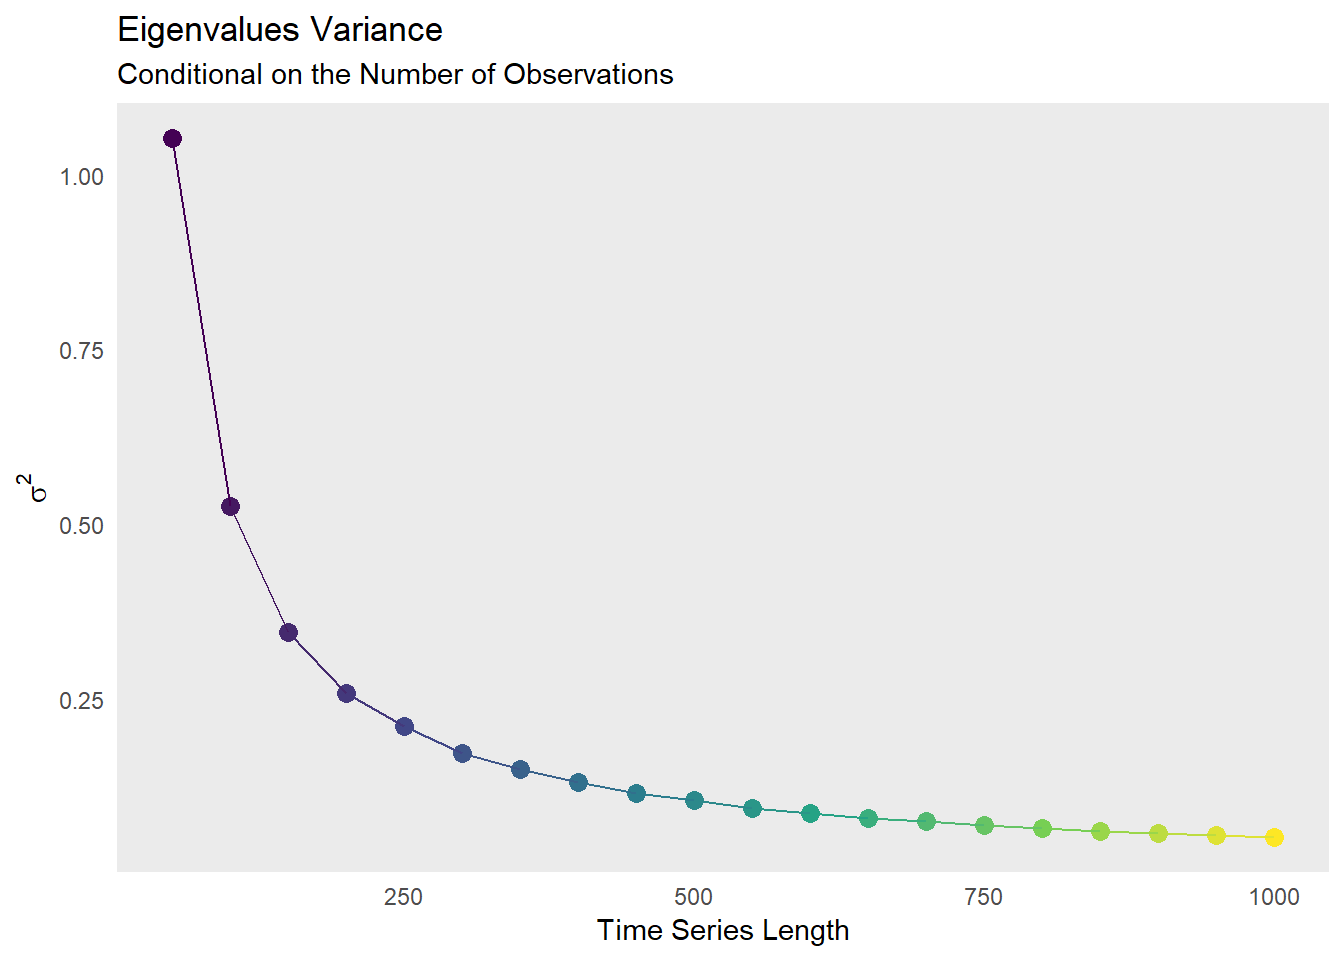
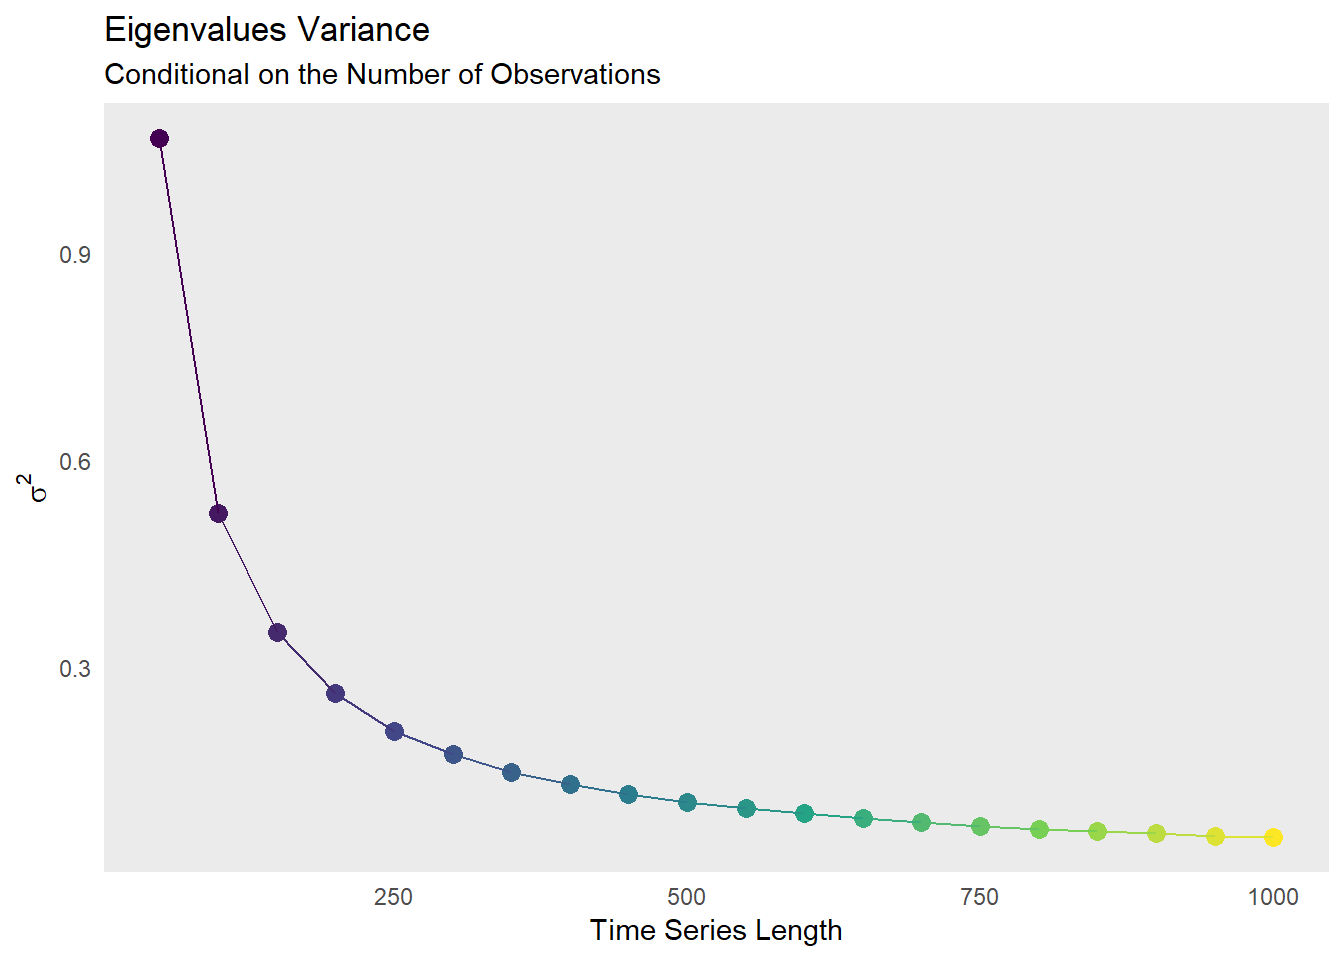
...

diff --git a/content/post/2019-02-27-estimation-error-visualized.html b/content/post/2019-02-27-estimation-error-visualized.html
@@ -17,8 +17,8 @@ tags:
 <p>By estimation-error I mean: the researcher is never certain about the <em>true</em> data generating process (DGP) of the phenomenon at hand. As Allan Timmermann and Graham Elliott argue, economic models can be thought as a condense representation of reality, in which mispecifification flourish naturally<a href="#fn3" class="footnoteRef" id="fnref3"><sup>3</sup></a>.</p>
 <p>To circumvent this problem statisticians appeal basically for two methods: <em>robust statistics</em> and <em>shrinkage</em>.</p>
 <p>The idea of robust statistics is to make data less sensitive to outliers. “Robust” means that small changes in data (or in the way data is described), do not affect by much it’s descriptive parameters. In that sense, the median is a robust statistic, while the mean it’s not.</p>
-<p>Shrinkage, on the other hand, is a way of averaging different estimators. In this case, practitioners often combine parametric and non-parametric estimators in attempt to keep the best of both options.</p>
-<p>One interesting application of shrinkage methods is in the estimation of variance-covariance matrices. Those matrices are required by almost any mathematical method in economics: from portfolio optimization to least squares and its strands (GLS, GMM, etc).</p>
+<p>Shrinkage, on the other hand, is a way of averaging different estimators. In this case, practitioners often combine parametric and non-parametric estimators in attempt to keep the best of both worlds</p>
+<p>One interesting application of shrinkage methods is in the estimation of variance-covariance matrices. Those matrices are required by almost any mathematical recipes in economics: from portfolio optimization to least squares - with all its strands (GLS, GMM, etc).</p>
 <p>A problem arises, though, if the matrix dimension, <span class="math inline">\(p\)</span>, is large in comparison to the number of observations, <span class="math inline">\(n\)</span>. If <span class="math inline">\(p &gt; n\)</span> the matrix is not even invertible. A less extreme case would be given by a <span class="math inline">\(p\)</span> that approaches <span class="math inline">\(n\)</span>. In these scenario, the sample covariance matrix is invertible, but numerically ill-conditioned, which means that the inverse matrix can amplify estimation error dramatically<a href="#fn4" class="footnoteRef" id="fnref4"><sup>4</sup></a>.</p>
 <p>To illustrate this point more clearly, let’s simulate a series of matrices with increasing length. For each length, the eigenvalues (<span class="math inline">\(\lambda\)</span>) will be calculated to check if there is any association between <span class="math inline">\(n\)</span> (the number of time series length) and the matrix dimension <span class="math inline">\(p\)</span> (think of <span class="math inline">\(p\)</span> as he number of assets in a stock universe, for example). For this exercise, <span class="math inline">\(p = 50\)</span>, while <span class="math inline">\(n\)</span> grows from <span class="math inline">\(50\)</span>, to <span class="math inline">\(100\)</span>, to <span class="math inline">\(150\)</span>, …, up to <span class="math inline">\(1.000\)</span>. For each <span class="math inline">\(n\)</span>, <span class="math inline">\(100\)</span> simulations will be run to compute the average eigenvalues. Finally, the random shocks will be generated by a standard multivariate normal distribution, with zero mean and an unitary variance, <span class="math inline">\(\epsilon \sim N(0, 1)\)</span>.</p>
 <p>Why are the eigenvalues important? Think on them as a <em>proxy</em> for how much information the data contains. In the realm of optimization, for example, the eigenvalues can be used to check the maximum (or minimum) condition of a stationary point. In differential equations, they are used to access the rate of convergence around a certain steady-state. When the eigenvalues are negative<a href="#fn5" class="footnoteRef" id="fnref5"><sup>5</sup></a>, the process if convergent; if any is positive, the process is explosive.</p>
@@ -113,12 +113,12 @@ for (k in seq_along(n)) {
 <p>The <code>lambda_fitted</code> object contain the estimated eigenvalues we really care about:</p>
 <pre class="r"><code>lambda_fitted[1:5, 1:5]</code></pre>
 <pre><code>##         [,1]     [,2]     [,3]     [,4]     [,5]
-## 50  3.773481 3.415792 3.112939 2.903928 2.713163
-## 100 2.767573 2.558064 2.417292 2.285636 2.162859
-## 150 2.375210 2.223898 2.111311 2.007136 1.924859
-## 200 2.153245 2.033587 1.944844 1.863487 1.784688
-## 250 2.028657 1.917432 1.834543 1.762906 1.704360</code></pre>
-<p>In which I printed only the first <span class="math inline">\(5\)</span> rows and columns to save space. As we look from the left to the right, the simulated eigenvalues start to decrease. That’s nothing wrong with that since I have ordered them this way. The problem, thought, is that they are more variable at the top-left of the matrix then they are at the bottom-right.</p>
+## 50  3.826688 3.423896 3.149923 2.921429 2.707823
+## 100 2.773371 2.570432 2.399505 2.268357 2.163152
+## 150 2.410781 2.226220 2.118039 2.023118 1.933317
+## 200 2.156373 2.039951 1.949001 1.867923 1.798481
+## 250 2.026297 1.911185 1.831831 1.756611 1.691428</code></pre>
+<p>In which I printed only the first <span class="math inline">\(5\)</span> rows and columns to save space. As we look from the left to the right, the simulated eigenvalues start to decrease. That’s nothing wrong with that since I have ordered them this way. The problem, thought, is that they are more variable at the top-left of the matrix, then they are at the bottom-right.</p>
 <p>A 2-D surface clearly shows the distortion effect caused by estimation-error.</p>
 <pre class="r"><code>library(gganimate)
 library(latex2exp)
@@ -155,8 +155,8 @@ plot &lt;- lambda_fitted_tidy %&gt;%
 animate(plot)</code></pre>
 <p><img src="/post/2019-02-27-estimation-error-visualized_files/figure-html/unnamed-chunk-4-1.gif" style="display: block; margin: auto;" /></p>
 <p>The mean value of <span class="math inline">\(\lambda\)</span> is <span class="math inline">\(1\)</span>, which is in accordance with the multivariate process of <span class="math inline">\(\mu=0\)</span> and <span class="math inline">\(\sigma^2 = 1\)</span> generated above.</p>
-<p>If there were no estimation error, the distribution of <span class="math inline">\(\lambda\)</span> should be essentially flat (since the DGP is the same for all <span class="math inline">\(n\)</span>). But as we see, when data is short the ellipse twists dramatically. It’s in this scenario that “shrinkage” comes in. The ill-behavior of covariance matrices are alleviated by exploring the bias &amp; variance trade-off of a highly structured matrix and one with little or no structure at all. The end result is a flatter and more precise ellipse around it’s <em>true</em> eigenvalues (as it should be).</p>
-<p>The simulation above reveals a fast decay in the average eigenvalues within <span class="math inline">\(500\)</span> and <span class="math inline">\(750\)</span> realizations, after when they stabilize. This give us some clue on the minimum amount of data we should have when dealing with matrices of <span class="math inline">\(p = 50\)</span>.</p>
+<p>If there were no estimation error, the distribution of <span class="math inline">\(\lambda\)</span> should be essentially flat (since the DGP is the same for all <span class="math inline">\(n\)</span>). But as we see, when data is short the ellipse twists dramatically. It’s in this scenario that shrinkage comes in. The ill-behavior of covariance matrices are alleviated by exploring the bias-variance trade-off of a highly structured matrix and one with little or no structure at all. The end result is a flatter and more precise ellipse around it’s <em>true</em> eigenvalues (as it should be).</p>
+<p>The simulation above reveals a fast decay in the average eigenvalues within <span class="math inline">\(500\)</span> and <span class="math inline">\(750\)</span> realizations, after when they stabilize. This give us some clue on the minimum amount of data we should have when dealing with matrices of dimension <span class="math inline">\(p = 50\)</span>.</p>
 <pre class="r"><code>lambda_fitted_tidy %&gt;% 
     group_by(ts_size) %&gt;% 
     summarise(variance = var(value)) %&gt;% 
@@ -171,9 +171,9 @@ animate(plot)</code></pre>
         x        = &quot;Time Series Length&quot;, 
         y        = TeX(&quot;$\\sigma ^ 2$&quot;)
     )</code></pre>
-<p><img src="/post/2019-02-27-estimation-error-visualized_files/figure-html/unnamed-chunk-5-1.png" width="672" /></p>
+<p><img src="/post/2019-02-27-estimation-error-visualized_files/figure-html/unnamed-chunk-5-1.png" width="672" style="display: block; margin: auto;" /></p>
 <p>This is in accordance with the empirical application I explored in previous posts (see <a href="https://www.bernardo.codes/2018/09/05/how-much-shrinkage-does-the-stock-market-requires/">here</a> and <a href="https://www.bernardo.codes/2018/09/08/a-covariance-matrix/">here</a>).</p>
-<p>The lesson is: when in doubt, always shrink!</p>
+<p>The lesson we should keep is: when in doubt, always shrink!</p>
 <div class="footnotes">
 <hr />
 <ol>
@@ -181,6 +181,6 @@ animate(plot)</code></pre>
 <li id="fn2"><p>Of course, if the model is wrong, not even with tons of data can help.<a href="#fnref2">↩</a></p></li>
 <li id="fn3"><p>See in <a href="https://rady.ucsd.edu/docs/faculty/timmermann/forecasting-in-economics-and-finance.pdf">Forecasting in Economics and Finance</a>.<a href="#fnref3">↩</a></p></li>
 <li id="fn4"><p>See “A Well-Conditioned Estimator For Large-Dimensional Covariance Matrices”, from Oliver Ledoit and Michael Wolf. Link <a href="http://ledoit.net/ole1a.pdf">here</a>.<a href="#fnref4">↩</a></p></li>
-<li id="fn5"><p>If the eigenvalues are complex numbers than a sufficient condition is given by the real part being negative.<a href="#fnref5">↩</a></p></li>
+<li id="fn5"><p>If the eigenvalues are complex numbers than a sufficient condition is given by having negative values in the real part.<a href="#fnref5">↩</a></p></li>
 </ol>
 </div>

diff --git a/public/2019/02/27/estimation-error-visualized/index.html b/public/2019/02/27/estimation-error-visualized/index.html
@@ -73,8 +73,8 @@
 <p>By estimation-error I mean: the researcher is never certain about the <em>true</em> data generating process (DGP) of the phenomenon at hand. As Allan Timmermann and Graham Elliott argue, economic models can be thought as a condense representation of reality, in which mispecifification flourish naturally<a href="#fn3" class="footnoteRef" id="fnref3"><sup>3</sup></a>.</p>
 <p>To circumvent this problem statisticians appeal basically for two methods: <em>robust statistics</em> and <em>shrinkage</em>.</p>
 <p>The idea of robust statistics is to make data less sensitive to outliers. “Robust” means that small changes in data (or in the way data is described), do not affect by much it’s descriptive parameters. In that sense, the median is a robust statistic, while the mean it’s not.</p>
-<p>Shrinkage, on the other hand, is a way of averaging different estimators. In this case, practitioners often combine parametric and non-parametric estimators in attempt to keep the best of both options.</p>
-<p>One interesting application of shrinkage methods is in the estimation of variance-covariance matrices. Those matrices are required by almost any mathematical method in economics: from portfolio optimization to least squares and its strands (GLS, GMM, etc).</p>
+<p>Shrinkage, on the other hand, is a way of averaging different estimators. In this case, practitioners often combine parametric and non-parametric estimators in attempt to keep the best of both worlds</p>
+<p>One interesting application of shrinkage methods is in the estimation of variance-covariance matrices. Those matrices are required by almost any mathematical recipes in economics: from portfolio optimization to least squares - with all its strands (GLS, GMM, etc).</p>
 <p>A problem arises, though, if the matrix dimension, <span class="math inline">\(p\)</span>, is large in comparison to the number of observations, <span class="math inline">\(n\)</span>. If <span class="math inline">\(p &gt; n\)</span> the matrix is not even invertible. A less extreme case would be given by a <span class="math inline">\(p\)</span> that approaches <span class="math inline">\(n\)</span>. In these scenario, the sample covariance matrix is invertible, but numerically ill-conditioned, which means that the inverse matrix can amplify estimation error dramatically<a href="#fn4" class="footnoteRef" id="fnref4"><sup>4</sup></a>.</p>
 <p>To illustrate this point more clearly, let’s simulate a series of matrices with increasing length. For each length, the eigenvalues (<span class="math inline">\(\lambda\)</span>) will be calculated to check if there is any association between <span class="math inline">\(n\)</span> (the number of time series length) and the matrix dimension <span class="math inline">\(p\)</span> (think of <span class="math inline">\(p\)</span> as he number of assets in a stock universe, for example). For this exercise, <span class="math inline">\(p = 50\)</span>, while <span class="math inline">\(n\)</span> grows from <span class="math inline">\(50\)</span>, to <span class="math inline">\(100\)</span>, to <span class="math inline">\(150\)</span>, …, up to <span class="math inline">\(1.000\)</span>. For each <span class="math inline">\(n\)</span>, <span class="math inline">\(100\)</span> simulations will be run to compute the average eigenvalues. Finally, the random shocks will be generated by a standard multivariate normal distribution, with zero mean and an unitary variance, <span class="math inline">\(\epsilon \sim N(0, 1)\)</span>.</p>
 <p>Why are the eigenvalues important? Think on them as a <em>proxy</em> for how much information the data contains. In the realm of optimization, for example, the eigenvalues can be used to check the maximum (or minimum) condition of a stationary point. In differential equations, they are used to access the rate of convergence around a certain steady-state. When the eigenvalues are negative<a href="#fn5" class="footnoteRef" id="fnref5"><sup>5</sup></a>, the process if convergent; if any is positive, the process is explosive.</p>
@@ -169,12 +169,12 @@ for (k in seq_along(n)) {
 <p>The <code>lambda_fitted</code> object contain the estimated eigenvalues we really care about:</p>
 <pre class="r"><code>lambda_fitted[1:5, 1:5]</code></pre>
 <pre><code>##         [,1]     [,2]     [,3]     [,4]     [,5]
-## 50  3.773481 3.415792 3.112939 2.903928 2.713163
-## 100 2.767573 2.558064 2.417292 2.285636 2.162859
-## 150 2.375210 2.223898 2.111311 2.007136 1.924859
-## 200 2.153245 2.033587 1.944844 1.863487 1.784688
-## 250 2.028657 1.917432 1.834543 1.762906 1.704360</code></pre>
-<p>In which I printed only the first <span class="math inline">\(5\)</span> rows and columns to save space. As we look from the left to the right, the simulated eigenvalues start to decrease. That’s nothing wrong with that since I have ordered them this way. The problem, thought, is that they are more variable at the top-left of the matrix then they are at the bottom-right.</p>
+## 50  3.826688 3.423896 3.149923 2.921429 2.707823
+## 100 2.773371 2.570432 2.399505 2.268357 2.163152
+## 150 2.410781 2.226220 2.118039 2.023118 1.933317
+## 200 2.156373 2.039951 1.949001 1.867923 1.798481
+## 250 2.026297 1.911185 1.831831 1.756611 1.691428</code></pre>
+<p>In which I printed only the first <span class="math inline">\(5\)</span> rows and columns to save space. As we look from the left to the right, the simulated eigenvalues start to decrease. That’s nothing wrong with that since I have ordered them this way. The problem, thought, is that they are more variable at the top-left of the matrix, then they are at the bottom-right.</p>
 <p>A 2-D surface clearly shows the distortion effect caused by estimation-error.</p>
 <pre class="r"><code>library(gganimate)
 library(latex2exp)
@@ -211,8 +211,8 @@ plot &lt;- lambda_fitted_tidy %&gt;%
 animate(plot)</code></pre>
 <p><img src="/post/2019-02-27-estimation-error-visualized_files/figure-html/unnamed-chunk-4-1.gif" style="display: block; margin: auto;" /></p>
 <p>The mean value of <span class="math inline">\(\lambda\)</span> is <span class="math inline">\(1\)</span>, which is in accordance with the multivariate process of <span class="math inline">\(\mu=0\)</span> and <span class="math inline">\(\sigma^2 = 1\)</span> generated above.</p>
-<p>If there were no estimation error, the distribution of <span class="math inline">\(\lambda\)</span> should be essentially flat (since the DGP is the same for all <span class="math inline">\(n\)</span>). But as we see, when data is short the ellipse twists dramatically. It’s in this scenario that “shrinkage” comes in. The ill-behavior of covariance matrices are alleviated by exploring the bias &amp; variance trade-off of a highly structured matrix and one with little or no structure at all. The end result is a flatter and more precise ellipse around it’s <em>true</em> eigenvalues (as it should be).</p>
-<p>The simulation above reveals a fast decay in the average eigenvalues within <span class="math inline">\(500\)</span> and <span class="math inline">\(750\)</span> realizations, after when they stabilize. This give us some clue on the minimum amount of data we should have when dealing with matrices of <span class="math inline">\(p = 50\)</span>.</p>
+<p>If there were no estimation error, the distribution of <span class="math inline">\(\lambda\)</span> should be essentially flat (since the DGP is the same for all <span class="math inline">\(n\)</span>). But as we see, when data is short the ellipse twists dramatically. It’s in this scenario that shrinkage comes in. The ill-behavior of covariance matrices are alleviated by exploring the bias-variance trade-off of a highly structured matrix and one with little or no structure at all. The end result is a flatter and more precise ellipse around it’s <em>true</em> eigenvalues (as it should be).</p>
+<p>The simulation above reveals a fast decay in the average eigenvalues within <span class="math inline">\(500\)</span> and <span class="math inline">\(750\)</span> realizations, after when they stabilize. This give us some clue on the minimum amount of data we should have when dealing with matrices of dimension <span class="math inline">\(p = 50\)</span>.</p>
 <pre class="r"><code>lambda_fitted_tidy %&gt;% 
     group_by(ts_size) %&gt;% 
     summarise(variance = var(value)) %&gt;% 
@@ -227,9 +227,9 @@ animate(plot)</code></pre>
         x        = &quot;Time Series Length&quot;, 
         y        = TeX(&quot;$\\sigma ^ 2$&quot;)
     )</code></pre>
-<p><img src="/post/2019-02-27-estimation-error-visualized_files/figure-html/unnamed-chunk-5-1.png" width="672" /></p>
+<p><img src="/post/2019-02-27-estimation-error-visualized_files/figure-html/unnamed-chunk-5-1.png" width="672" style="display: block; margin: auto;" /></p>
 <p>This is in accordance with the empirical application I explored in previous posts (see <a href="https://www.bernardo.codes/2018/09/05/how-much-shrinkage-does-the-stock-market-requires/">here</a> and <a href="https://www.bernardo.codes/2018/09/08/a-covariance-matrix/">here</a>).</p>
-<p>The lesson is: when in doubt, always shrink!</p>
+<p>The lesson we should keep is: when in doubt, always shrink!</p>
 <div class="footnotes">
 <hr />
 <ol>
@@ -237,7 +237,7 @@ animate(plot)</code></pre>
 <li id="fn2"><p>Of course, if the model is wrong, not even with tons of data can help.<a href="#fnref2">↩</a></p></li>
 <li id="fn3"><p>See in <a href="https://rady.ucsd.edu/docs/faculty/timmermann/forecasting-in-economics-and-finance.pdf">Forecasting in Economics and Finance</a>.<a href="#fnref3">↩</a></p></li>
 <li id="fn4"><p>See “A Well-Conditioned Estimator For Large-Dimensional Covariance Matrices”, from Oliver Ledoit and Michael Wolf. Link <a href="http://ledoit.net/ole1a.pdf">here</a>.<a href="#fnref4">↩</a></p></li>
-<li id="fn5"><p>If the eigenvalues are complex numbers than a sufficient condition is given by the real part being negative.<a href="#fnref5">↩</a></p></li>
+<li id="fn5"><p>If the eigenvalues are complex numbers than a sufficient condition is given by having negative values in the real part.<a href="#fnref5">↩</a></p></li>
 </ol>
 </div>
 
